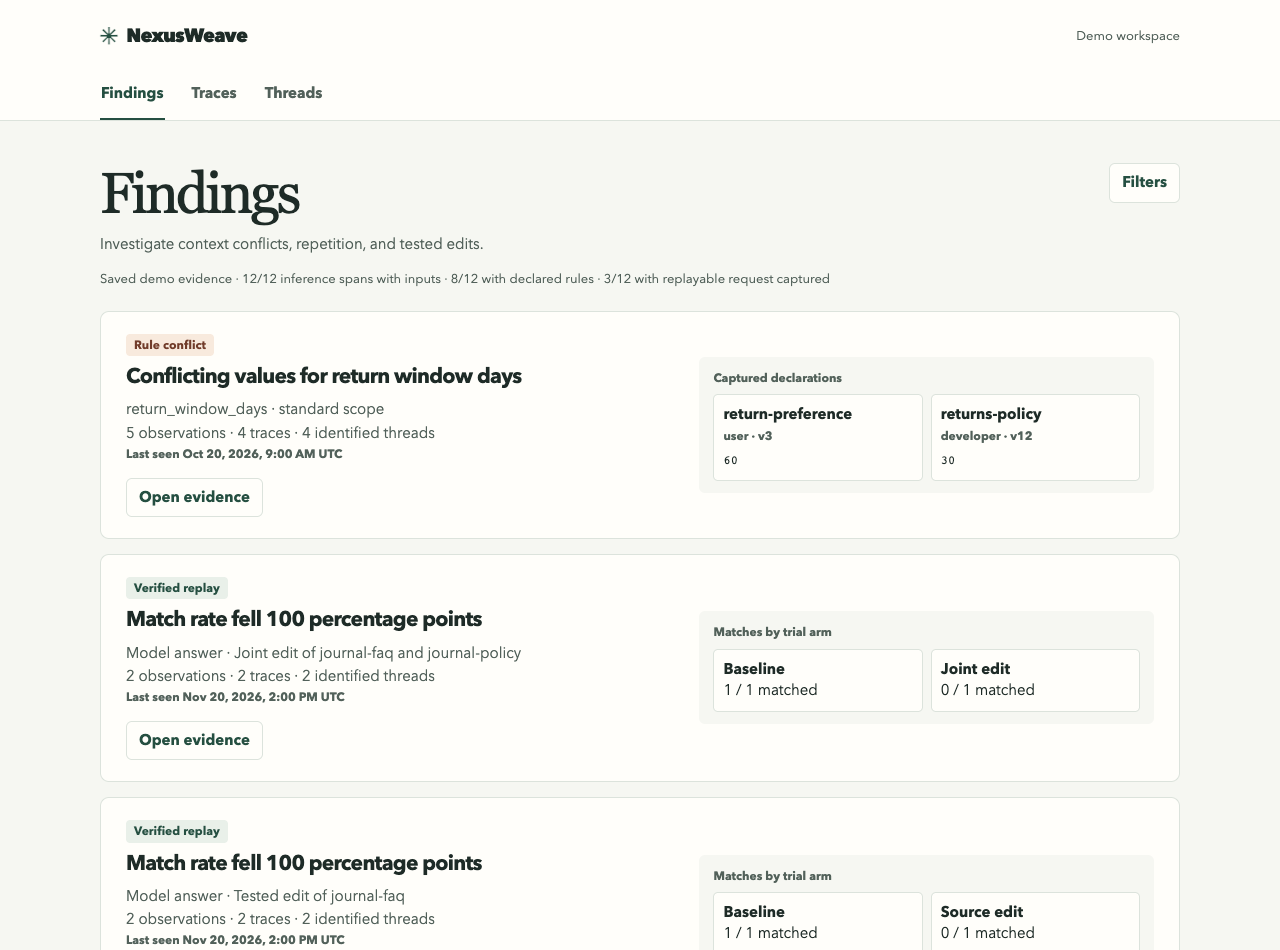
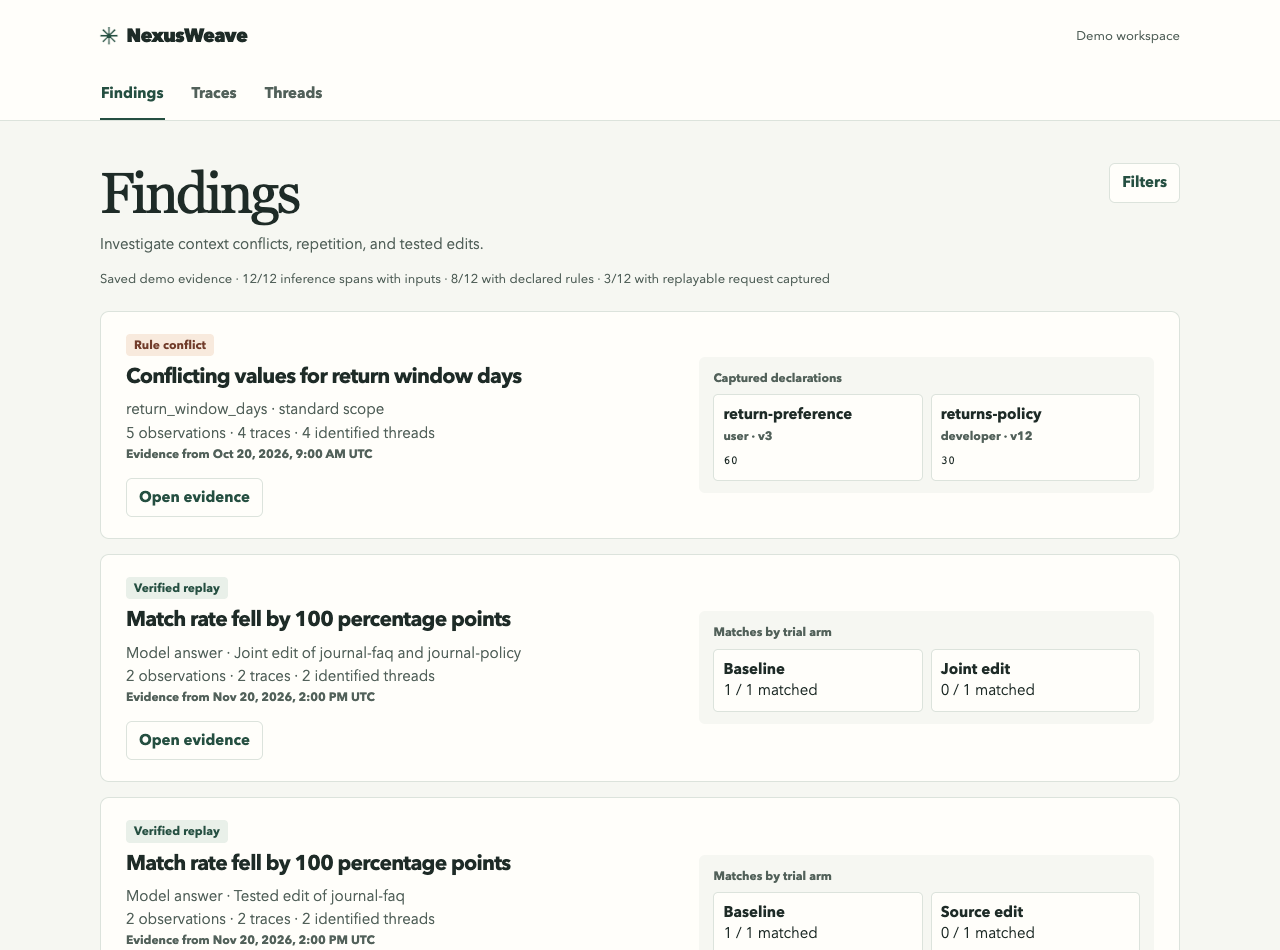
Link replay cards to the trials supporting their rank

diff --git a/ui/sidecar.js b/ui/sidecar.js
@@ -80,11 +80,12 @@ function visual(kind, detail, rows = []) {
 function findingTitle(kind, detail) {
   if (kind === "conflict") return "Conflicting values for " + detail.rule.replaceAll("_", " ");
   if (kind === "duplicate") return "The same input appears " + detail.copies + " times";
-  const amount = Math.abs(Number(detail.effect_pp.toFixed(2)));
-  const points = plural(amount, "percentage point");
+  const amount = Math.abs(detail.effect_pp);
+  const points = amount < 0.01 ? "less than 0.01 percentage points" :
+    plural(Number(amount.toFixed(2)), "percentage point");
   if (detail.effect_pp === 0) return "Measured match rates were equal";
   if (detail.edit === "control") return "Target and control differed by " + points;
-  return "Match rate " + (detail.effect_pp > 0 ? "rose " : "fell ") + points;
+  return "Match rate " + (detail.effect_pp > 0 ? "rose by " : "fell by ") + points;
 }
 
 function findingDetail(kind, detail) {
@@ -107,7 +108,7 @@ function findingCard(card) {
     element("p", { text: findingDetail(kind, detail) }),
     element("p", { text: [plural(card.occurrences, "observation"), plural(card.traces, "trace"),
       card.threads ? plural(card.threads, "identified thread") : "Thread IDs unavailable"].join(" · ") }),
-    card.latest == null ? null : element("p", { className: "label", text: "Last seen " + fullDate(card.latest) }),
+    evidence.observed == null ? null : element("p", { className: "label", text: "Evidence from " + fullDate(evidence.observed) }),
     link("Open evidence", href, "action")), visual(kind, detail, card.trend));
 }
 
@@ -166,13 +167,18 @@ function compareForm(group) {
     element("button", { type: "submit", text: "Compare" }));
   form.addEventListener("submit", async (event) => {
     event.preventDefault();
+    const otherUser = user.value.trim();
+    if (!otherUser) {
+      result.textContent = "Enter a user ID.";
+      return;
+    }
     result.textContent = "Loading comparison…";
     try {
       const [current, other] = await Promise.all([api("findings", { ...scope, group }),
-        api("findings", { ...scope, user: user.value.trim(), group })]);
+        api("findings", { ...scope, user: otherUser, group })]);
       const describe = (rows) => rows.length ? plural(rows[0].traces, "trace") + " · " + plural(rows[0].threads, "identified thread") : "No captured matches";
       result.replaceChildren(element("div", { className: "comparison" }, ...[
-        [scope.user || "Current scope", current.rows], [user.value.trim(), other.rows],
+        [scope.user || "Current scope", current.rows], [otherUser, other.rows],
       ].map(([label, rows]) => element("div", {}, element("strong", { text: label }),
         element("p", { text: describe(rows) }), rows.length ? trend(rows[0].trend) : null))));
     } catch (error) {

diff --git a/src/sidecar/store.rs b/src/sidecar/store.rs
@@ -59,7 +59,7 @@ impl Store {
                 .query_row("SELECT value FROM policy WHERE id=1", [], |row| row.get(0))?;
         if previous != policy {
             return Err(
-                "capture settings differ from the existing database; use a new database".into(),
+                "capture settings differ from the existing database. Use a new database.".into(),
             );
         }
         Ok(())
@@ -95,7 +95,7 @@ impl Store {
             loaded_bytes += saved.as_ref().map_or(0, String::len);
             if loaded_bytes > MAX_LOAD_BYTES {
                 return Err(
-                    "existing trace snapshots exceed 16 MiB per export; send smaller batches"
+                    "existing trace snapshots exceed 16 MiB per export. Send smaller batches."
                         .into(),
                 );
             }
@@ -238,7 +238,7 @@ impl Store {
             bytes += row.get::<_, usize>(1)?;
             if bytes > 8 * 1024 * 1024 || runs.len() == 8 {
                 return Err(
-                    "this scope is too large for a legacy view; open it in Findings, Traces, or Threads".into(),
+                    "this scope is too large for a legacy view. Open it in Findings, Traces, or Threads.".into(),
                 );
             }
             runs.push(serde_json::from_str(&row.get::<_, String>(0)?)?);
@@ -300,8 +300,10 @@ impl Store {
                  )
                  SELECT json_object('id',g.group_id,'kind',g.kind,'occurrences',g.hits,'traces',g.traces,
                      'threads',g.threads,'latest',g.latest,'priority',g.priority,
-                     'evidence',json((SELECT json_object('trace_id',e.trace_id,'call_id',e.call_id,'detail',json(e.detail))
-                       FROM events e WHERE e.group_id=g.group_id ORDER BY observed DESC,trace_id,call_id,n LIMIT 1)),
+                     'evidence',json((SELECT json_object('trace_id',e.trace_id,'call_id',e.call_id,'observed',e.observed,'detail',json(e.detail))
+                       FROM events e WHERE e.group_id=g.group_id
+                       ORDER BY CASE WHEN e.kind='replay' AND abs(json_extract(e.detail,'$.effect_pp'))>0 THEN 0 ELSE 1 END,
+                                e.observed DESC,e.trace_id,e.call_id,e.n LIMIT 1)),
                      'trend',json((SELECT json_group_array(json_object('day',day,'count',hits)) FROM
                        (SELECT date(observed,'unixepoch') AS day,count(*) AS hits FROM events e
                         WHERE e.group_id=g.group_id AND observed IS NOT NULL GROUP BY day ORDER BY day DESC LIMIT 14))))

diff --git a/scripts/check_sidecar.py b/scripts/check_sidecar.py
@@ -201,6 +201,30 @@ def check_replay(base, send_trace=send_traces):
     return len(measured)
 
 
+def check_replay_representative(base):
+    sys.path.insert(0, str(ROOT / "examples"))
+    from send_otlp_replay import prepare as prepare_replay
+
+    changed_trace, changed_report = prepare_replay("older-measured-change")
+    equal_trace, equal_report = prepare_replay("newer-measured-equality")
+    equal_span = equal_trace["resourceSpans"][0]["scopeSpans"][0]["spans"][0]
+    for field in ["startTimeUnixNano", "endTimeUnixNano"]:
+        equal_span[field] = str(int(equal_span[field]) + 2 * 10**9)
+    equal_report.pop("pair", None)
+    equal_arm = equal_report["variants"][1]
+    equal_arm["trials"] = deepcopy(equal_report["baseline"])
+    equal_arm["summary"] = deepcopy(equal_report["baseline_summary"])
+    equal_arm["difference_pp"] = 0.0
+    for trace, report in [(changed_trace, changed_report), (equal_trace, equal_report)]:
+        send_traces(base, trace)
+        send(base, "/api/replay-reports", report, expected=201)
+    rows = get(base, "findings", kind="replay")["rows"]
+    card = next(card for card in rows if card["evidence"]["detail"]["edit"] == "individual" and card["priority"] == 1)
+    assert card["traces"] == 2 and card["latest"] > card["evidence"]["observed"]
+    assert card["evidence"]["trace_id"] == changed_report["location"]["run_id"]
+    assert card["evidence"]["detail"]["effect_pp"] == -100.0
+
+
 def check_activation(base, producer_python):
     output = subprocess.check_output([producer_python, str(ROOT / "examples/send_otlp_activation.py"), "--url", base], text=True)
     linked = parse_qs(urlsplit(output.strip()).fragment)
@@ -362,6 +386,8 @@ def main():
                 check_activation(base, args.sdk_python)
         with server(args.binary, captured, "--capture-content") as base:
             assert any(card["kind"] == "replay" for card in get(base, "findings")["rows"])
+        with server(args.binary, folder / "representative.sqlite", "--capture-content") as base:
+            check_replay_representative(base)
         if args.sdk_python:
             # Repeat the live card, recurrence, and replay journeys using the
             # SDK's actual encoder, processor, and exporter.

diff --git a/src/otlp.rs b/src/otlp.rs
@@ -281,7 +281,7 @@ fn prepare(
                     record.attrs = attrs;
                     if policy.is_some() && updates.len() >= 64 && !updates.contains_key(&trace_id) {
                         return Err(
-                            "sidecar export exceeds 64 trace IDs; send smaller batches".into()
+                            "sidecar export exceeds 64 trace IDs. Send smaller batches.".into()
                         );
                     }
                     let spans = match updates.entry(trace_id.clone()) {

diff --git a/docs/methods.md b/docs/methods.md
@@ -14,7 +14,7 @@
 
 Within a trace, use the captured call ID to locate each observation. Conflict groups use the rule key, scope, and the source-version pair. Exact-repeat groups add the hash of the matching text and the participating sources. Unnamed sources are trace-local. Replay groups use the existing compatibility key, including the outcome, scoring rule, interventions, runner, model, and sampling design. Groups are counts of captured observations with similar evidence. Their effects are never pooled by the feed.
 
-Findings show recurring conflicts first, followed by replays with a measured difference, individual conflicts, exact repeats, and replays with equal measured rates. Within each tier, identified thread count, distinct trace count, and latest observed time are sorted descending. A stable group ID breaks ties. Time filters use the observation timestamp for Findings and the trace start for Traces and Threads. Undated evidence is present in the unfiltered feed and excluded from date-windowed counts.
+Findings show recurring conflicts first, followed by replays with a measured difference, individual conflicts, exact repeats, and replays with equal measured rates. A replay group that includes a measured change opens the most recent observation with a change. The card and recurrence counts keep the example separate from the whole group. Within each tier, identified thread count, distinct trace count, and latest observed time are sorted descending. A stable group ID breaks ties. Time filters use the observation timestamp for Findings and the trace start for Traces and Threads. Undated evidence is present in the unfiltered feed and excluded from date-windowed counts.
 
 A numeric zero in a replay means the recorded match rates were equal. A missing result means that the validator could not derive a comparable difference from the evidence. The latter remains visible in the trial details of an attached report and never creates a measured replay card. Counts of captured inputs, declared rules, and replayable requests describe capture coverage. They cannot establish the prevalence of a finding in missing telemetry.
 

diff --git a/docs/validation.md b/docs/validation.md
@@ -4,6 +4,8 @@ The evaluation uses synthetic trace labels and saved local-model trials. The lab
 
 ## Reproduce the checks
 
+Use stable Rust and Python 3.10 or newer.
+
 ```sh
 cargo build --release --locked
 python3 -m venv /tmp/nexusweave-otel
